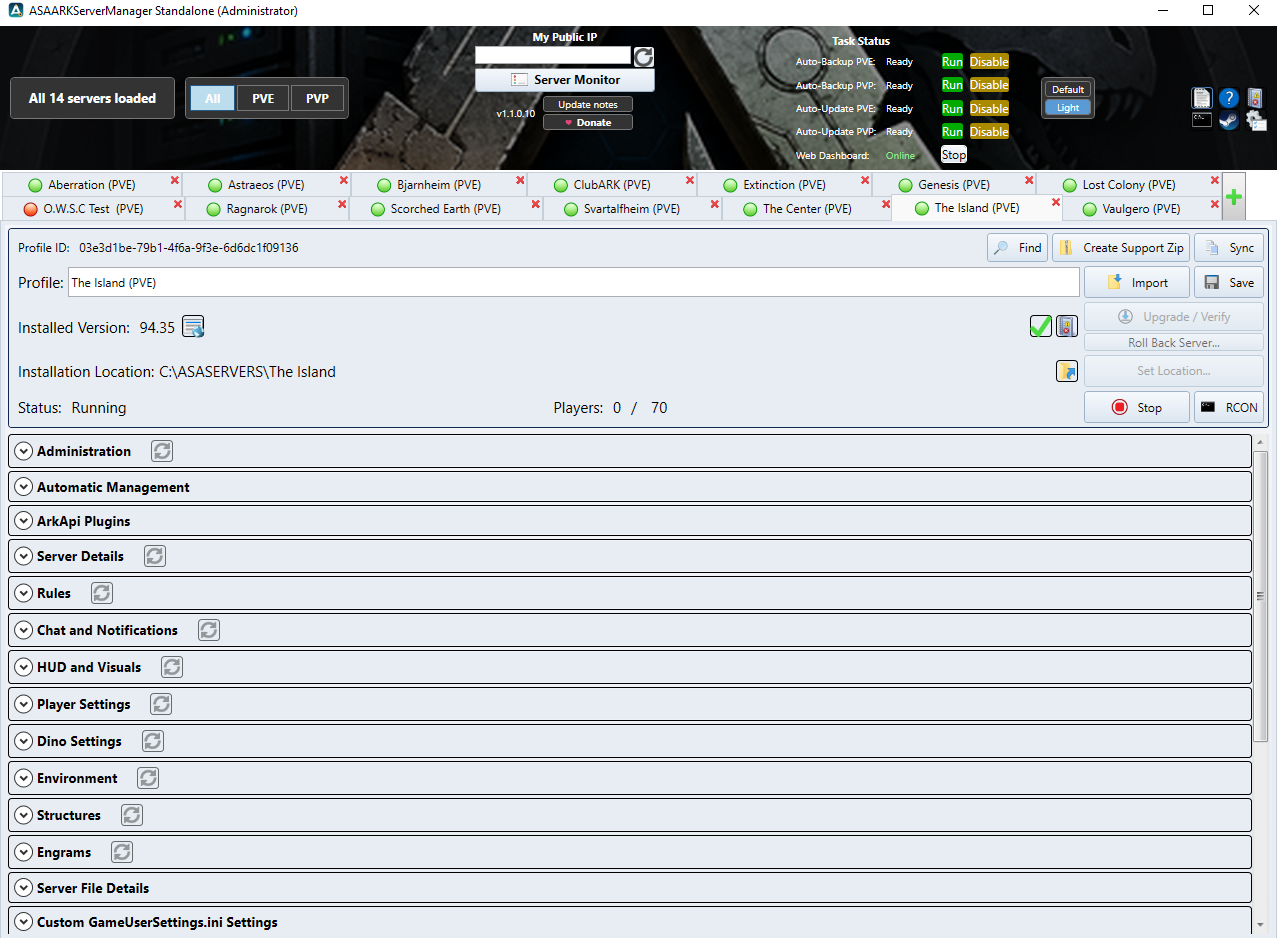
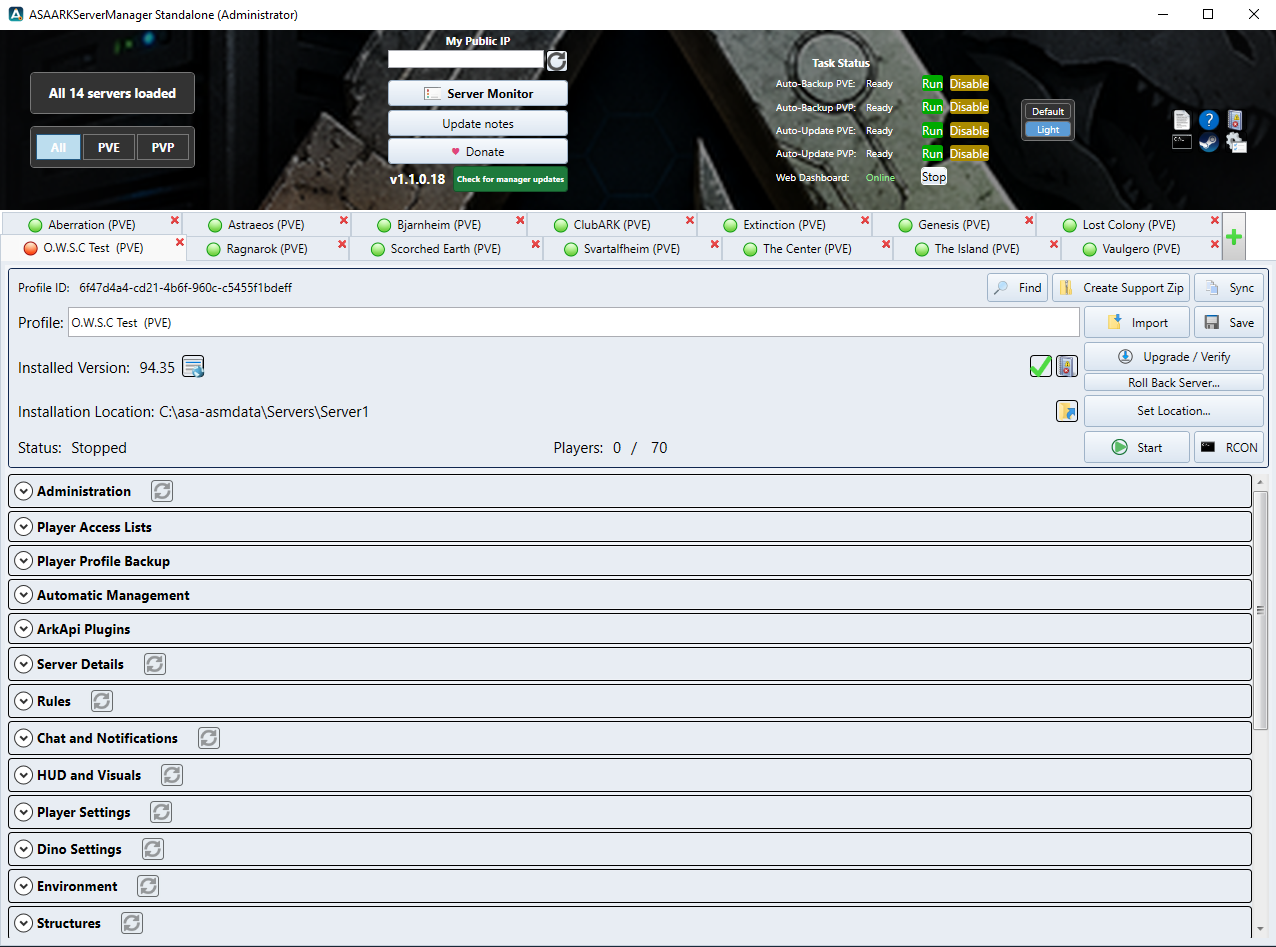
Update the main screenshot (manager 1.1.0.18)

Changed region(s): [[0.0, 0.0, 1.0, 1.0]]

diff --git a/README.md b/README.md
@@ -13,7 +13,7 @@ The manager checks this page for a newer version by itself and offers an upgrade
 
 ## Screenshots
 
-**The manager** - all server profiles as tabs, Task Status for Auto Backup / Auto Update (PVE and PVP), Server Monitor, Default and Light themes.
+**The manager** - all server profiles as tabs, Task Status for Auto Backup / Auto Update (PVE and PVP), Server Monitor, a Check for manager updates button, Default and Light themes.
 
 ![The manager](docs/screenshots/manager-main.png)
 
